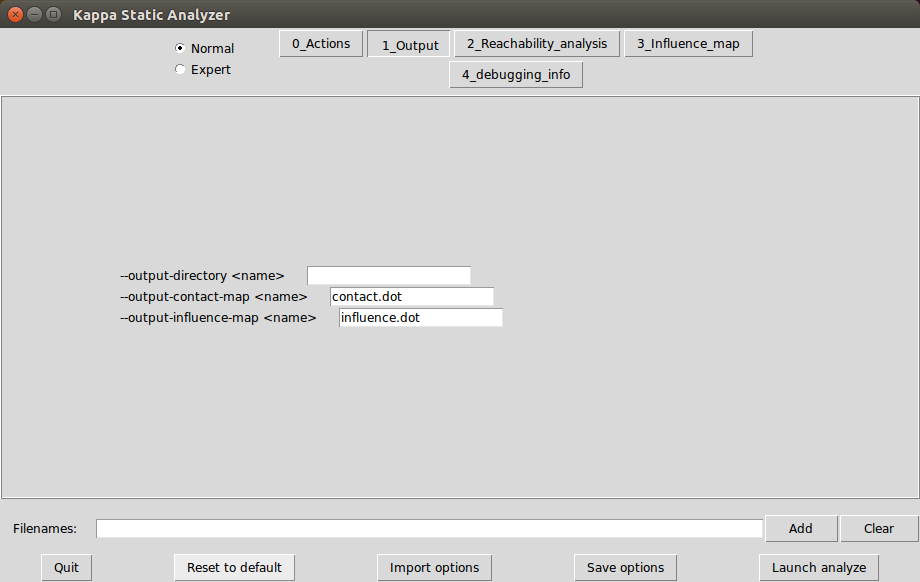
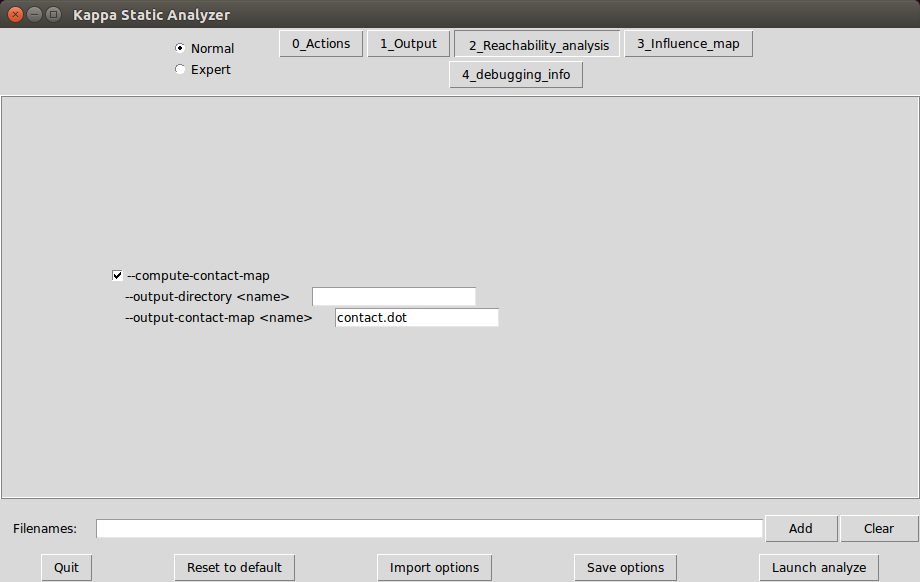
Manual: contact map.

Changed region(s): [[0.1217, 0.433, 0.5174, 0.5567], [0.3957, 0.0619, 0.6696, 0.0928], [0.5174, 0.4948, 0.5478, 0.5567]]

diff --git a/man/KaSim_manual.tex b/man/KaSim_manual.tex
@@ -118,7 +118,7 @@ each step (see Fig.~\ref{fig:event-loop}). Importantly, the cost of a simulation
 Note that \KaSim~is not equipped with a %curve 
 visualization tool. However, data outputs are given in a text format that can be displayed using any standard plotting software such as \href{http://www.gnuplot.info/}{gnuplot}.
 
-\section{The \KaSa~tool}
+\section{The \KaSa~static analyser}
 
 \KaSa~is an open source static analyser  tool of rule-based models~\cite{DanLan04,Dan_etal07a,Fae_etal05} written in Kappa. \KaSa~takes one or several \hyperref[chap:kappa]{Kappa files} as input and some command line options to toggle on/off some specific static analysis. Currently, only the computation of the contact map and of the influence map are available. Other analyses including reachability analysis \cite{Feret-ICCMSE2007,DanosEtAl-VMCAI08} and model reduction \cite{Feret-et-al-pnas2009,DanosEtAl-LICS2010,Feret-MFPSXXVII} will come soon. 
 
@@ -1020,7 +1020,7 @@ More formally, consider the rules $r:L\rar R$ and $s:L'\rar R'$. One wishes to k
    \label{fig:im}
 \end{figure}
 
-\chapter{The \KaSa~tool}
+\chapter{The \KaSa~static analyser}
 
 \section{General usage}
 
@@ -1049,7 +1049,7 @@ without any option.
 
 \begin{figure}[htbp]
 \centering
-\includegraphics[width=8cm,natwidth=920pt,natheight=582pt]{img/kasa_0.png}
+\includegraphics[width=12cm,natwidth=920pt,natheight=582pt]{img/kasa_0.png}
 \caption{\KaSa~ graphical interface - main onglet}
 \label{fig:kasa:0}
 \end{figure}
@@ -1060,7 +1060,7 @@ There are five different areas of importance in the graphical interface:
 \begin{enumerate}
 \item On the top left of the window, a button allows for the selection between the Normal and the Expert mode (other modes may be available if activated at compilation). 
 In expert modes, more options are available in the graphical interface.
-\item On the top center/right, some button allows for the selection of the onglet. There are currently five onglets available: 0\_Actions, 1\_Output, 2\_Reachability\_analysis, 3\_Influence\_map, 4\_debugging\_information. 
+\item On the top center/right, some button allows for the selection of the onglet. There are currently five onglets available: \texttt{0\_Actions}, \texttt{1\_Output}, \texttt{2\_Reachability\_analysis}, \texttt{3\_Influence\_map}, \texttt{4\_debugging\_information}. 
 \item Center: The options of the selected onglet are displayed and can be tuned. 
 
 Contextual help is provided when the mouse is hovered over an element. 
@@ -1092,7 +1092,7 @@ The onglet \texttt{0\_Actions} (see Fig.~\ref{fig:kasa:0}) contains the main act
 
 \begin{figure}[htbp]
 \centering
-\includegraphics[width=8cm,natwidth=920pt,natheight=582pt]{img/kasa_0.png}
+\includegraphics[width=12cm,natwidth=920pt,natheight=582pt]{img/kasa_1.png}
 \caption{\KaSa~ graphical interface - main onglet}
 \label{fig:kasa:1}
 \end{figure}
@@ -1110,8 +1110,16 @@ The onglet \texttt{1\_Ouput} (see Fig.~\ref{fig:kasa:1}) contains the names of t
 
 The contact map of a model is an object that may help modelers checking the consistency of the rule set they use. The contact map is \emph{statically} computed and does not depend on kinetic rates nor initial conditions.
 
-The contact map summarises the different types of agent, their interface and the potential binding between sites. 
-It is an over approximation, thus if the contact map indicates a potential bond, it does not mean that it is always possible to reach a state in which two sites of these kinds are bound, but if the contact map indicates no bond between two sites, it means that it is NOT possible to reach a state in which two sites of these kinds are bound together.  \KaSa~will produce a dot format file. The produced graph is given in Figure~\ref{fig:abc-contact}. 
+The contact map summarises the different types of agent, their interface and the potential binding between sites. It is an over approximation, thus if the contact map indicates a potential bond, it does not mean that it is always possible to reach a state in which two sites of these kinds are bound, but if the contact map indicates no bond between two sites, it means that it is NOT possible to reach a state in which two sites of these kinds are bound together.  
+Typing the following instruction:
+
+\texttt{KaSa abc.ka --reset-all --compute-contact-map}
+
+will produce a dot format file named \texttt{contact.dot}. 
+
+The contact map for the \ttt{abc.ka} model  defined in Chapter~\ref{chap:abc} is given in Figure~\ref{fig:abc-contact}. On this map, we notice that there are three kinds of agent, namely $A$, $B$, and $C$. 
+Agents of kind $A$ have two sites $x$ and $c$, that bear no internal state (they appear in yellow only), agents of kind $B$ have one site $x$, that bears no internal state (they appear in yellow only), and agents of kind $C$ have two sites $x_1$ and $x_2$ with both a binding state and an internal state (they appear both in yellow and in green). 
+Additionally, the contact map indicates that sites $x$ of the agents of kind $A$ can be bound to the site $x$ of an agent of kind $B$ and that sites $c$ of the agents of kind $A$ can be bound to the agents of kind $C$ either on the site $x_1$, or on the site $x_2$. 
 
 \begin{figure}[htbp]
 \centering
@@ -1119,6 +1127,18 @@ It is an over approximation, thus if the contact map indicates a potential bond,
 \caption{Contact Map for the \ttt{abc.ka} model defined in Chapter~\ref{chap:abc}}
 \label{fig:abc-contact}
 \end{figure}
+
+It is possible to change the name of the output by using the option \ttt{--output-contact}, it is also possible to put the output in another repository thanks to the option \ttt{--output-directory}. All the options related to the computation of the contact map can be accessed on the 
+onglet \texttt{2\_Reachability\_analysis} of the graphical interface (see Fig.~\ref{fig:kasa:2}). 
+
+\begin{figure}[htbp]
+\centering
+\includegraphics[width=12cm,natwidth=920pt,natheight=582pt]{img/kasa_2.png}
+\caption{\KaSa~ graphical interface - onglet \texttt{2\_Reachability\_analysis}}
+\label{fig:kasa:2}
+\end{figure}
+
+
 \section{Influence map}
 
 
